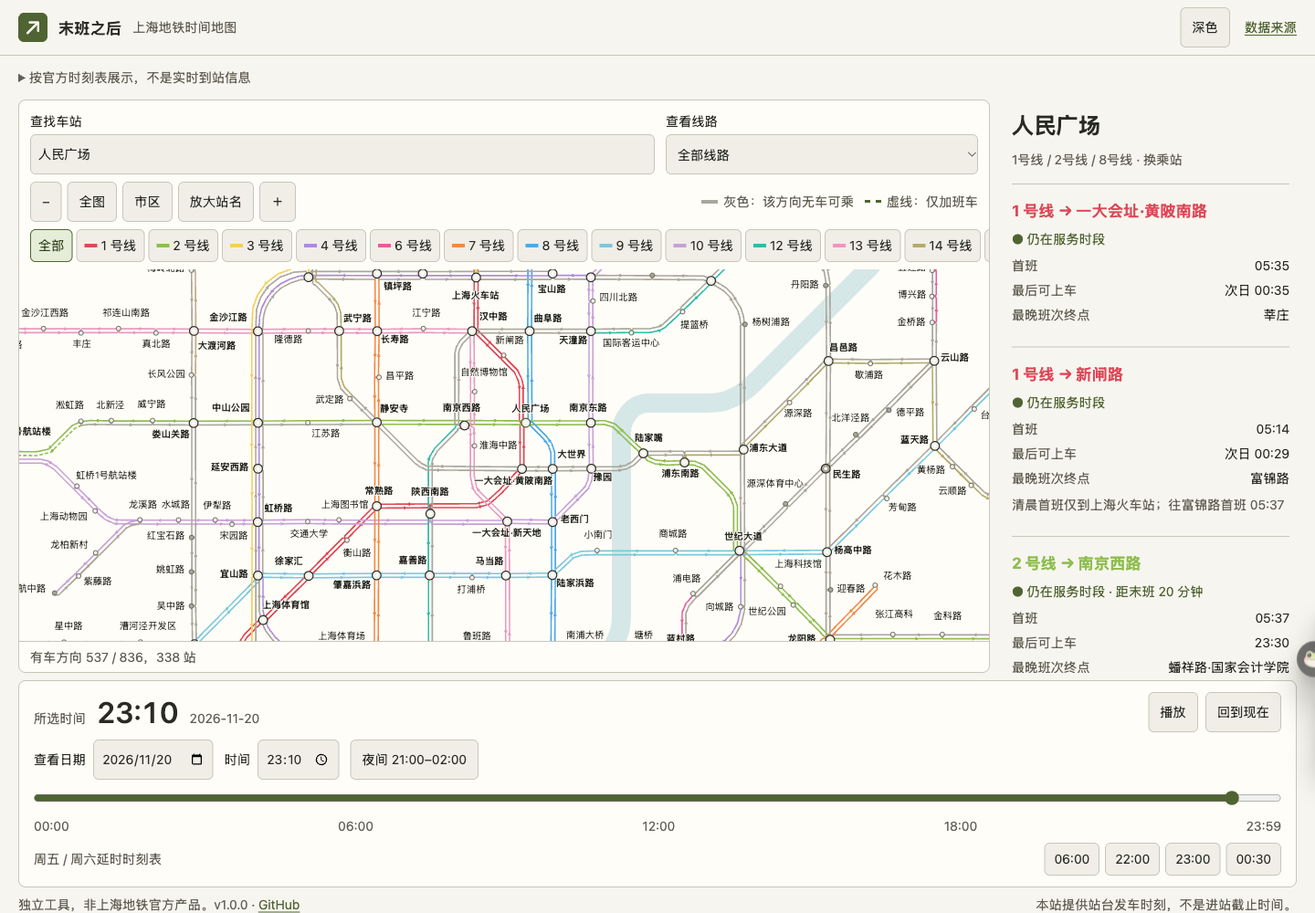
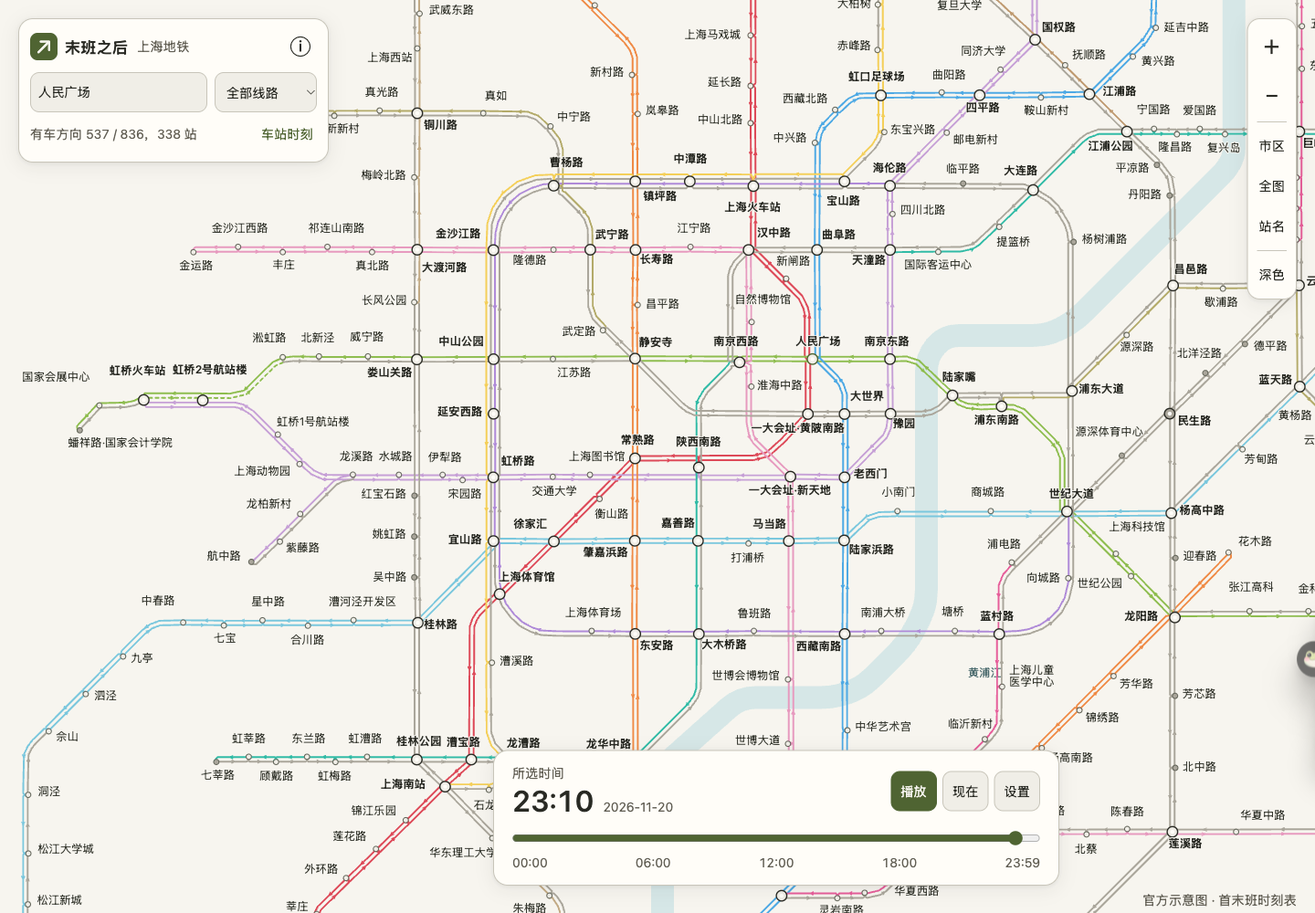
Make the metro map full screen with floating controls

diff --git a/dist/style.css b/dist/style.css
@@ -1,9 +1,13 @@
 /* Shared semantic colors keep the official line palette independent of the theme. */
 :root{font-family:-apple-system,BlinkMacSystemFont,'PingFang SC','Microsoft YaHei',sans-serif;font-size:14px;line-height:1.5;color:var(--text);background:var(--bg);font-synthesis:none;color-scheme:light;--bg:#f7f5ef;--surface:#fffdf8;--field:#f0eee6;--line:#c8c5b9;--muted:#625f54;--accent:#4e642d;--closed:#aaa69a;--text:#292a23;--hover:#e6e4d9;--pressed:#e5ecd7;--pressed-text:#33451b;--river:#d6e7e7;--river-text:#48696c;--station:#65675b;--map-text:#36382f}
 :root[data-theme=dark]{color-scheme:dark;--bg:#171715;--surface:#20201d;--field:#292925;--line:#49483f;--muted:#bebbb1;--accent:#d2dfa5;--closed:#88867d;--text:#eeeae2;--hover:#37372f;--pressed:#383e2c;--pressed-text:#e4efbf;--river:#1b3544;--river-text:#b7c7c4;--station:#bebbb1;--map-text:#dedbd2}
-*{box-sizing:border-box}body{margin:0}button,input,select{font:inherit;color:inherit}button,input,select{min-height:44px;border:1px solid var(--line);border-radius:6px;background:var(--field)}button{cursor:pointer;padding:8px 12px}button:hover{background:var(--hover)}button[aria-pressed=true]{border-color:var(--accent);background:var(--pressed);color:var(--pressed-text)}input,select{padding:8px;min-width:0;color-scheme:inherit}a{color:var(--accent);text-underline-offset:3px}button:focus-visible,input:focus-visible,select:focus-visible,summary:focus-visible,[tabindex]:focus-visible{outline:2px solid var(--accent);outline-offset:3px}summary{cursor:pointer;min-height:32px;line-height:32px}p{margin:8px 0;color:var(--muted)}h1,h2,h3{font-size:24px;line-height:1.3;margin:12px 0}h3{font-size:17px}small{font-size:14px}header{min-height:52px;padding:8px 20px;border-bottom:1px solid var(--line);display:flex;align-items:center;justify-content:space-between;gap:16px}.brand{display:flex;gap:12px;align-items:center;color:inherit;text-decoration:none}.brand strong{font-size:17px}.brand span:last-child{color:var(--muted)}.mark{font-size:24px;line-height:32px;width:32px;text-align:center;background:var(--accent);color:var(--bg);border-radius:6px}main{height:calc(100dvh - 52px);min-height:820px;max-width:1900px;margin:auto;padding:8px 20px;display:grid;grid-template-rows:auto minmax(0,1fr) auto auto;gap:8px}.notice{color:var(--muted)}.notice p{max-width:1000px}.workspace{display:grid;grid-template-columns:minmax(0,1fr) 320px;gap:16px;min-height:0}.map-panel{border:1px solid var(--line);border-radius:8px;overflow:hidden;display:grid;grid-template-rows:auto auto auto minmax(0,1fr) auto;min-width:0;min-height:0;background:var(--surface)}.search-row{display:flex;gap:12px;padding:12px 12px 0;align-items:end;flex-wrap:wrap}.search-row label{display:grid;gap:4px;flex:1}.search-row label:first-child{flex:2}.search-row #station-message{width:100%;margin:0;color:var(--accent)}#station-message:empty{display:none}.map-toolbar{display:flex;gap:8px;padding:8px 12px;flex-wrap:wrap;align-items:center;justify-content:space-between}.map-actions{display:flex;gap:6px}.legend{display:flex;gap:12px;flex-wrap:wrap;color:var(--muted)}.legend span{display:flex;align-items:center;gap:6px}.legend i{width:18px;height:4px;display:inline-block}.closed-key{background:var(--closed)}.extra-key{border-top:3px dashed var(--accent)}.line-filters{display:flex;gap:4px;padding:0 12px 8px;overflow:auto}.line-filters button{display:flex;align-items:center;white-space:nowrap;gap:4px;padding:4px 8px;min-height:36px}.line-filters i{width:14px;height:4px;background:var(--line-color)}.map-scroll{min-height:0;overflow:auto;cursor:grab;scrollbar-color:#69675b var(--surface);overscroll-behavior:contain}.map-scroll:active{cursor:grabbing}#map{display:block;margin:0 auto;max-width:none}svg text{font-size:17px;fill:var(--map-text);paint-order:stroke;stroke:var(--surface);stroke-width:3px;stroke-linejoin:round;user-select:none}svg .interchange-label{font-weight:600;fill:var(--text)}svg .map-orientation{font-size:24px;fill:var(--muted);stroke:none}svg .river-label{font-size:17px;fill:var(--river-text);stroke:none}svg .stop{cursor:pointer}svg .stop:focus circle{stroke:var(--accent);stroke-width:4}svg .stop:hover text{fill:var(--text)}.map-foot{display:flex;align-items:center;justify-content:space-between;flex-wrap:wrap;gap:6px;padding:6px 12px;border-top:1px solid var(--line);color:var(--muted)}#show-detail{display:none}aside{overflow:auto;padding:4px 8px 12px;min-height:0}#detail h2{margin-top:8px}.station-meta{margin:4px 0 16px}.direction{padding:16px 0;border-top:1px solid var(--line)}.direction strong{font-size:17px;line-height:1.5}.status{margin:8px 0;color:var(--muted)}.status.open{color:var(--accent)}dl{margin:8px 0}dl div{display:flex;gap:12px;justify-content:space-between;margin:6px 0}dt{color:var(--muted)}dd{margin:0;text-align:right;overflow-wrap:anywhere}.note{color:var(--muted)}.explainer{border-top:1px solid var(--line);margin-top:12px;padding-top:8px}.timeline{padding:12px 16px;border:1px solid var(--line);border-radius:8px;background:var(--surface)}.time-top{display:flex;justify-content:space-between;gap:12px;align-items:center}.time-top>div:first-child{display:flex;gap:12px;align-items:baseline;flex-wrap:wrap}#selected-time{font-size:32px;line-height:1.15;font-weight:550;font-variant-numeric:tabular-nums}#mode,#viewing-date{color:var(--muted)}.time-actions{display:flex;gap:8px}.date-row{display:flex;align-items:center;gap:12px;flex-wrap:wrap;margin-top:8px}.date-row label{display:flex;align-items:center;gap:8px}.date-row input{max-width:180px}#slider{width:100%;accent-color:var(--accent);cursor:ew-resize;display:block;padding:0;min-height:32px;border:0;margin:4px 0}.ticks{display:flex;justify-content:space-between;color:var(--muted)}.timeline-bottom{display:flex;align-items:center;justify-content:space-between;gap:12px;margin-top:8px}.presets{display:flex;gap:6px}.presets button{min-height:36px;padding:4px 10px}#calendar-note{color:var(--muted)}footer{color:var(--muted);display:flex;justify-content:space-between;gap:12px;flex-wrap:wrap}.source-page{display:block;height:auto;min-height:0;max-width:900px;padding:24px;line-height:1.8}.source-page li{color:var(--muted);margin-bottom:10px}.source-page h2{margin-top:28px}
-@media(max-width:900px){header{padding:8px 12px}.brand{gap:8px}.brand span:last-child{display:none}main{height:auto;min-height:0;display:grid;padding:8px;grid-template-rows:auto auto auto auto auto;gap:8px}.workspace{display:contents}.notice{order:0}.map-panel{order:1;display:block}.timeline{order:2}aside{order:3;overflow:visible;padding:12px}.map-scroll{height:clamp(280px,44svh,520px)}.search-row{padding:8px 8px 0;gap:8px}.search-row label:first-child{flex:1.6}.search-row label:last-of-type{flex:1}.map-toolbar{padding:8px;gap:8px}.map-actions{width:100%;justify-content:space-between}.map-actions button{padding:8px 10px}.legend{gap:8px}.line-filters{display:none}.map-foot{padding:8px;display:block}#show-detail{display:block;width:100%;margin-top:8px}.time-top>div:first-child{gap:4px 8px}#mode,#viewing-date{width:100%}.timeline{padding:12px}.date-row{gap:8px}.date-row label{gap:6px}.date-row input{width:152px}.date-row label:nth-child(2) input{width:106px}.date-row #range{width:100%}.timeline-bottom{display:block}.presets{margin-top:8px}.presets button{flex:1;min-height:44px}.ticks{gap:4px;flex-wrap:wrap}footer{order:4;padding:8px}.source-page{display:block;padding:20px}.direction strong{overflow-wrap:anywhere}}
+*{box-sizing:border-box}body{margin:0}button,input,select{font:inherit;color:inherit}button,input,select{min-height:44px;border:1px solid var(--line);border-radius:10px;background:var(--field)}button{cursor:pointer;padding:8px 12px;white-space:nowrap}button:hover{background:var(--hover)}button[aria-pressed=true]{background:var(--pressed);color:var(--pressed-text);border-color:var(--accent)}input,select{padding:8px;min-width:0;color-scheme:inherit}a{color:var(--accent);text-underline-offset:3px}button:focus-visible,input:focus-visible,select:focus-visible,[tabindex]:focus-visible{outline:2px solid var(--accent);outline-offset:3px}[hidden]{display:none!important}p{margin:10px 0;color:var(--muted)}h1,h2{font-size:24px;line-height:1.3;margin:12px 0}h3{font-size:17px}small{font-size:14px}.sr-only{position:absolute;width:1px;height:1px;padding:0;margin:-1px;overflow:hidden;clip:rect(0,0,0,0);white-space:nowrap;border:0}
+.map-app{overflow:hidden}.map-app main{position:fixed;inset:0;isolation:isolate}.map-scroll{position:absolute;inset:0;overflow:auto;background:var(--bg);cursor:grab;overscroll-behavior:none;scrollbar-width:none}.map-scroll::-webkit-scrollbar{display:none}.map-scroll:active{cursor:grabbing}#map-stage{width:max-content;padding:50dvh 50vw}#map{display:block;max-width:none}svg text{font-size:17px;fill:var(--map-text);paint-order:stroke;stroke:var(--bg);stroke-width:3px;stroke-linejoin:round;user-select:none}svg .interchange-label{font-weight:600;fill:var(--text)}svg .map-orientation{font-size:24px;fill:var(--muted);stroke:none}svg .river-label{font-size:17px;fill:var(--river-text);stroke:none}svg .stop{cursor:pointer}svg .stop:focus circle{stroke:var(--accent);stroke-width:4}
+.floating{position:absolute;background:var(--surface);border:1px solid var(--line);border-radius:16px;box-shadow:0 4px 20px #17171514,0 1px 4px #17171512;z-index:2}.search-panel{top:20px;left:20px;width:340px;padding:12px}header{display:flex;align-items:center;gap:10px;margin-bottom:10px}.brand{display:flex;align-items:center;gap:8px;color:var(--text);text-decoration:none}.brand strong{font-size:17px}.mark{font-size:24px;line-height:30px;width:30px;text-align:center;background:var(--accent);color:var(--bg);border-radius:8px}.city-name{color:var(--muted);flex:1}.icon-button{min-width:36px;min-height:36px;padding:0;font-size:24px;border:0;background:transparent}.search-row{display:grid;grid-template-columns:minmax(0,1fr) 112px;gap:8px}.search-row input{width:100%}.search-status{display:flex;gap:8px;align-items:center;margin-top:6px;color:var(--muted)}#count{flex:1;font-variant-numeric:tabular-nums}.text-button{border:0;background:transparent;padding:4px;min-height:36px;color:var(--accent)}#station-message:empty{display:none}#station-message{color:var(--accent);margin-bottom:0}
+#station-details{left:20px;top:198px;width:340px;max-height:calc(100dvh - 222px);overflow:hidden;display:flex;flex-direction:column;z-index:4}.panel-heading{display:flex;align-items:center;justify-content:space-between;padding:8px 16px;border-bottom:1px solid var(--line);color:var(--muted)}.detail-scroll{overflow:auto;padding:0 16px 16px;overscroll-behavior:contain;min-height:0}.station-meta{margin:4px 0 16px}.direction{padding:16px 0;border-top:1px solid var(--line)}.direction strong{display:block;font-size:17px;line-height:1.5;color:var(--text);border-left:4px solid var(--direction-color);padding-left:8px}.status{margin:8px 0;color:var(--muted)}.status.open{color:var(--accent)}dl{margin:8px 0}dl div{display:flex;gap:12px;justify-content:space-between;margin:6px 0}dt{color:var(--muted)}dd{margin:0;text-align:right;overflow-wrap:anywhere}#about-panel{top:198px;left:20px;width:340px;padding:0 16px 16px;max-height:calc(100dvh - 220px);overflow:auto;z-index:5}#about-panel .panel-heading{margin:0 -16px 12px}.legend{display:grid;gap:10px}.legend span{display:flex;align-items:center;gap:8px}.legend i{width:22px;height:4px;display:inline-block}.closed-key{background:var(--closed)}.open-key{background:var(--accent)}.extra-key{border-top:3px dashed var(--accent)}footer{color:var(--muted);border-top:1px solid var(--line);padding-top:10px}
+.map-tools{right:20px;top:20px;display:flex;flex-direction:column;padding:4px;border-radius:14px}.map-tools button{border:0;border-radius:8px;background:transparent;min-width:44px;padding:8px}.map-tools button:hover{background:var(--hover)}#plus,#minus{font-size:24px}.tool-divider{height:1px;background:var(--line);margin:4px 6px}.timeline{bottom:30px;left:50%;transform:translateX(-50%);width:min(620px,calc(100vw - 440px));padding:14px 20px;z-index:3}.time-top{display:flex;justify-content:space-between;align-items:center;gap:12px}.time-readout{min-width:0}.time-readout>div{display:flex;gap:10px;align-items:baseline;flex-wrap:wrap}#mode,#viewing-date{color:var(--muted)}#selected-time{font-size:32px;line-height:1.2;font-weight:550;font-variant-numeric:tabular-nums}.time-actions{display:flex;gap:6px;flex-shrink:0}.time-actions button{padding:8px 10px}#play{background:var(--accent);border-color:var(--accent);color:var(--bg)}#slider{display:block;width:100%;padding:0;border:0;min-height:32px;height:32px;margin:6px 0 0;accent-color:var(--accent);cursor:ew-resize}.ticks{display:flex;justify-content:space-between;gap:4px;color:var(--muted);font-variant-numeric:tabular-nums}.date-row{display:flex;gap:10px;align-items:end;flex-wrap:wrap;border-top:1px solid var(--line);margin-top:12px;padding-top:12px}.date-row label{display:grid;gap:4px}.date-row input{max-width:170px}.timeline-bottom{margin-top:12px;display:flex;align-items:center;justify-content:space-between;gap:8px;flex-wrap:wrap}#calendar-note{color:var(--muted)}.presets{display:flex;gap:6px}.presets button{padding:4px 8px}.map-attribution{position:absolute;bottom:4px;right:20px;color:var(--muted);pointer-events:none;font-size:14px}.source-page{max-width:900px;margin:auto;padding:24px;line-height:1.8}.source-page li{color:var(--muted);margin-bottom:10px}.source-page h2{margin-top:28px}
+@media(min-width:901px){.timeline{left:calc(50% + 130px)}}
+@media(max-width:900px){.search-panel{top:max(12px,env(safe-area-inset-top));left:12px;width:min(340px,calc(100vw - 90px))}.search-panel header{gap:6px}.city-name{display:none}.search-panel .icon-button{margin-left:auto}.search-row{grid-template-columns:minmax(0,1fr) 108px}.map-tools{right:12px;top:max(12px,env(safe-area-inset-top))}.timeline{left:12px;right:12px;bottom:max(22px,env(safe-area-inset-bottom));width:auto;transform:none;padding:12px 14px;max-height:65dvh;overflow:auto}.time-top{gap:8px}#selected-time{font-size:24px}.time-readout>div{gap:2px 8px}.time-actions{gap:4px}.time-actions button{padding:8px}.date-row input{width:150px}.date-row label:nth-child(2) input{width:106px}.date-row #range{flex:1}.map-attribution{right:12px;font-size:14px}.search-status{display:block}#count{display:block}#show-detail{min-height:32px;padding:2px 0}.search-panel{padding:10px}#station-details,#about-panel{left:12px;top:210px;width:calc(100vw - 24px);max-height:calc(100dvh - 390px)}.detail-scroll{padding:0 14px 14px}.panel-heading{padding:6px 14px}.timeline-bottom{display:block}.presets{margin-top:8px}.presets button{flex:1}}
+@media(max-width:370px){.search-panel{width:calc(100vw - 80px)}.search-row{grid-template-columns:1fr}.search-status{display:none}.search-panel header{margin-bottom:6px}.search-panel{padding:8px}.search-row input,.search-row select{min-height:40px}.time-top{flex-wrap:wrap}.time-actions{margin-left:auto}.time-readout>div{gap:4px}.time-readout #viewing-date{display:none}#station-details,#about-panel{top:200px;max-height:calc(100dvh - 380px)}}
+@media(max-height:560px) and (min-width:600px){.search-status{display:none}.search-panel{width:300px}.timeline{width:460px;left:auto;right:90px;transform:none;bottom:24px;max-height:calc(100dvh - 40px);overflow:auto}#station-details,#about-panel{top:150px;max-height:calc(100dvh - 165px);width:300px}.map-tools{top:12px}.map-tools button{min-height:36px}.time-readout>div{flex-wrap:nowrap}}
 @media(prefers-reduced-motion:reduce){*{scroll-behavior:auto!important}}
-
-.header-actions{display:flex;align-items:center;gap:16px}.header-actions button{white-space:nowrap}.time-actions{flex-shrink:0}.time-actions button{white-space:nowrap}footer a{white-space:nowrap}
-@media(max-width:900px){.header-actions{gap:12px}.header-actions button{padding:6px 10px}.map-scroll{height:clamp(240px,32svh,400px)}.timeline{display:grid;grid-template-columns:minmax(0,1fr)}.time-top{grid-row:1;flex-wrap:wrap}.time-top>div:first-child{flex:1;min-width:145px}#mode{width:100%}#viewing-date{width:auto}#selected-time{font-size:24px}.time-actions{gap:6px}.time-actions button{padding:8px}.timeline #slider{grid-row:2;margin-top:8px}.timeline .ticks{grid-row:3}.date-row{grid-row:4}.timeline-bottom{grid-row:5}.map-foot{display:flex;align-items:center;gap:4px}.map-foot #count{flex:1;min-width:180px}#show-detail{width:auto;margin:0;padding:6px 8px}.date-row label{flex-wrap:wrap}.date-row label:first-child{flex:1}.date-row input{max-width:100%}}

diff --git a/dist/sources.html b/dist/sources.html
@@ -1,1 +1,1 @@
-<!doctype html><html lang="zh-CN"><meta charset="utf-8"><meta name="viewport" content="width=device-width,initial-scale=1"><title>数据来源 · 末班之后</title><script src="theme.js"></script><link rel="stylesheet" href="style.css"><link rel="icon" href="icon.svg"><main class="source-page"><a href="index.html">← 返回时间地图</a><button type="button" data-theme-toggle>深色</button><h1>每一刻，都有出处。</h1><p>1 号线 28 站、2 号线 31 站、8 号线 30 站、10 号线 37 站（含航中路支线），新增 7 号线 33 站、9 号线 35 站、13 号线 31 站，再新增 4 号线 26 站、12 号线 32 站、14 号线 30 站，新增 3 号线 29 站、6 号线 28 站、15 号线 30 站、18 号线 31 站后，合并换乘站共 338 个车站、836 个乘车方向。所有首末班时间取自官方表格，没有使用站间均匀推算或模拟数据。</p><h2>线路布局依据</h2><p>站点位置、相邻区段弯折与站名位置来自<a href="https://service.shmetro.com/yxxlt/index.htm">上海地铁官网网络示意图</a>及其嵌入的官方矢量图（标注版本 D202512，核验于 2026-11-16）。保留官方图的相对方位与换乘关系，仅提取本工具 十四条线路重绘，并增加双向箭头和收车状态。黄浦江为简化方位参照。官方图本身经过示意化处理，并非真实地理比例或导航地图。</p><h2>官方时刻表来源</h2><ul><li><a href="https://service.shmetro.com/hcskb/index.htm?line=1">上海地铁官网 · 1 号线首末班时刻表</a></li><li><a href="https://service.shmetro.com/hcskb/index.htm?line=2">上海地铁官网 · 2 号线首末班时刻表及定点加班车</a></li><li><a href="https://service.shmetro.com/hcskb/index.htm?line=8">上海地铁官网 · 8 号线首末班及周末延时</a></li><li><a href="https://service.shmetro.com/hcskb/index.htm?line=10">上海地铁官网 · 10 号线分支、延时及定点加班车</a></li><li><a href="https://www.shanghai.gov.cn/nw17239/20260413/d8e14c16213246eba8fac7c23b2b04af.html">上海市人民政府 · 2026-04-13 全网时刻表转载</a>，用于图表交叉核对。</li></ul><p>采集核验日期：2026-11-16。官网未明确显示这些表各自的生效日期，因此采集日期不等于生效日期。本工具 是官方常规计划的快照，不是实时运营信息。</p><p><a href="https://service.shmetro.com/hcskb/index.htm?line=7">上海地铁官网 · 7 号线首末班与周末延时</a></p><p><a href="https://service.shmetro.com/hcskb/index.htm?line=9">上海地铁官网 · 9 号线首末班与周末延时</a></p><p><a href="https://service.shmetro.com/hcskb/index.htm?line=13">上海地铁官网 · 13 号线首末班与周末延时</a></p><p><a href="https://service.shmetro.com/hcskb/index.htm?line=4">上海地铁官网 · 4 号线首末班表</a></p><p><a href="https://service.shmetro.com/hcskb/index.htm?line=12">上海地铁官网 · 12 号线首末班表</a></p><p><a href="https://service.shmetro.com/hcskb/index.htm?line=14">上海地铁官网 · 14 号线首末班表</a></p><p><a href="https://service.shmetro.com/hcskb/index.htm?line=3">上海地铁官网 · 3 号线首末班表</a></p><p><a href="https://service.shmetro.com/hcskb/index.htm?line=6">上海地铁官网 · 6 号线首末班表</a></p><p><a href="https://service.shmetro.com/hcskb/index.htm?line=15">上海地铁官网 · 15 号线首末班表</a></p><p><a href="https://service.shmetro.com/hcskb/index.htm?line=18">上海地铁官网 · 18 号线首末班表</a></p><h2>颜色怎样计算</h2><ul><li>每段箭头从出发站看：首班开始至末班发车之前，表示仍有后续服务。不是轨道上有车，也不是现在立刻有车到站。</li><li>时间精确到分钟。在表定末班分钟开始时，保守视为末班已发，不显示为还能赶上。</li><li>首班尚未开始和末班已结束都显示灰色，点击站点可区分原因。</li><li>1 号线采用周五、周六延时表；清晨部分北行首班只到上海火车站。末班跨午夜按前一运营日延续。</li><li>2 号线广兰路以西东行采用到广兰路的常规末班；广兰路及以东采用到机场的末班。页面分别显示机场与广兰路末班限制。</li><li>虹桥火车站 23:04、23:30，虹桥2号航站楼 23:06、23:32 的定点加班车允许上车，终点龙阳路。中途指定站只下不上，不延长这些站的可乘车时间。常规末班后用线路原色虚线区分。</li><li>8 号线采用周五、周六延时表，两个方向分别判断。</li><li>10 号线在龙溪路分为虹桥火车站与航中路两支；周五、周六仅虹桥火车站—新江湾城区段延时，不延长航中路支线及新江湾城—基隆路段。共线区段只要任一可乘班次仍在服务，保持点亮；分岔后独立判断。</li><li>10 号线周日—周四定点加班车仅虹桥火车站（22:45 / 23:00）、虹桥2号航站楼（22:46 / 23:01）、虹桥1号航站楼（22:49 / 23:04）允许上车，终点五角场；中途指定站只下不上。</li><li>7 号线仅祁华路—花木路、9 号线仅佘山—杨高中路、13 号线仅金运路—华鹏路区段在周五、周六延时。区间末班不会延长到区间之外；跨午夜继续沿用前一运营日方案。</li><li>4 号线为闭合环线，内圈、外圈分别计算。官网宜山路出现两行，分别保留内圈和外圈的发车时间，不把到达时间当发车。末班终到宜山路，经过宜山路继续绕行的方向不会因此保持点亮。</li><li>12、14 号线采用官方常规首末班表，不套用其他线路的周末延时。14 号线仅包含当前官方表中有首末班时刻的 30 个运营站。</li><li>3、6、15、18 号线采用各自官方普通首末班表。3、4 号线共线区段保留独立轨迹和服务状态；18 号线包含官方表中的航头—康文路全线，并按每站首班时间处理多点发车。</li><li>终点站的“到达”时间不会当作该方向的上车时间。</li></ul><h2>适用范围</h2><p>日期选择按星期套用官方常规方案。尚未接入法定节假日专项方案、临时封站、现场加班和实时延误；选择历史或未来日期也不代表已核验那天的实际运营。地图不能保证换乘成功或来得及进站，请以当日公告、站内提示为准。</p><p>官网提示末班车进站前三分钟停售该末班车车票；本工具以站台发车时刻判断，不是进站截止时间。</p><h2>一分钟体验</h2><p>选 2026-11-16，点“夜间 21:00–02:00”后播放：从 22:30 起观察十四条线逐段变灰；选虹桥火车站看加班车；把日期换成 2026-11-20，继续播放至次日，观察 1、7、8、9、10、13 号线按区段延时。选龙溪路查看三种相邻方向：前往航中路支线可能已收车，前往虹桥火车站的分支仍有服务。全图适合看变化，“放大站名”或放大适合查看细节。</p></main></html>
+<!doctype html><html lang="zh-CN"><meta charset="utf-8"><meta name="viewport" content="width=device-width,initial-scale=1"><title>数据来源 · 末班之后</title><script src="theme.js"></script><link rel="stylesheet" href="style.css"><link rel="icon" href="icon.svg"><main class="source-page"><a href="index.html">← 返回时间地图</a><button type="button" data-theme-toggle>深色</button><h1>每一刻，都有出处。</h1><p>1 号线 28 站、2 号线 31 站、8 号线 30 站、10 号线 37 站（含航中路支线），新增 7 号线 33 站、9 号线 35 站、13 号线 31 站，再新增 4 号线 26 站、12 号线 32 站、14 号线 30 站，新增 3 号线 29 站、6 号线 28 站、15 号线 30 站、18 号线 31 站后，合并换乘站共 338 个车站、836 个乘车方向。所有首末班时间取自官方表格，没有使用站间均匀推算或模拟数据。</p><h2>线路布局依据</h2><p>站点位置、相邻区段弯折与站名位置来自<a href="https://service.shmetro.com/yxxlt/index.htm">上海地铁官网网络示意图</a>及其嵌入的官方矢量图（标注版本 D202512，核验于 2026-11-16）。保留官方图的相对方位与换乘关系，仅提取本工具 十四条线路重绘，并增加双向箭头和收车状态。黄浦江为简化方位参照。官方图本身经过示意化处理，并非真实地理比例或导航地图。</p><h2>官方时刻表来源</h2><ul><li><a href="https://service.shmetro.com/hcskb/index.htm?line=1">上海地铁官网 · 1 号线首末班时刻表</a></li><li><a href="https://service.shmetro.com/hcskb/index.htm?line=2">上海地铁官网 · 2 号线首末班时刻表及定点加班车</a></li><li><a href="https://service.shmetro.com/hcskb/index.htm?line=8">上海地铁官网 · 8 号线首末班及周末延时</a></li><li><a href="https://service.shmetro.com/hcskb/index.htm?line=10">上海地铁官网 · 10 号线分支、延时及定点加班车</a></li><li><a href="https://www.shanghai.gov.cn/nw17239/20260413/d8e14c16213246eba8fac7c23b2b04af.html">上海市人民政府 · 2026-04-13 全网时刻表转载</a>，用于图表交叉核对。</li></ul><p>采集核验日期：2026-11-16。官网未明确显示这些表各自的生效日期，因此采集日期不等于生效日期。本工具 是官方常规计划的快照，不是实时运营信息。</p><p><a href="https://service.shmetro.com/hcskb/index.htm?line=7">上海地铁官网 · 7 号线首末班与周末延时</a></p><p><a href="https://service.shmetro.com/hcskb/index.htm?line=9">上海地铁官网 · 9 号线首末班与周末延时</a></p><p><a href="https://service.shmetro.com/hcskb/index.htm?line=13">上海地铁官网 · 13 号线首末班与周末延时</a></p><p><a href="https://service.shmetro.com/hcskb/index.htm?line=4">上海地铁官网 · 4 号线首末班表</a></p><p><a href="https://service.shmetro.com/hcskb/index.htm?line=12">上海地铁官网 · 12 号线首末班表</a></p><p><a href="https://service.shmetro.com/hcskb/index.htm?line=14">上海地铁官网 · 14 号线首末班表</a></p><p><a href="https://service.shmetro.com/hcskb/index.htm?line=3">上海地铁官网 · 3 号线首末班表</a></p><p><a href="https://service.shmetro.com/hcskb/index.htm?line=6">上海地铁官网 · 6 号线首末班表</a></p><p><a href="https://service.shmetro.com/hcskb/index.htm?line=15">上海地铁官网 · 15 号线首末班表</a></p><p><a href="https://service.shmetro.com/hcskb/index.htm?line=18">上海地铁官网 · 18 号线首末班表</a></p><h2>颜色怎样计算</h2><ul><li>每段箭头从出发站看：首班开始至末班发车之前，表示仍有后续服务。不是轨道上有车，也不是现在立刻有车到站。</li><li>时间精确到分钟。在表定末班分钟开始时，保守视为末班已发，不显示为还能赶上。</li><li>首班尚未开始和末班已结束都显示灰色，点击站点可区分原因。</li><li>1 号线采用周五、周六延时表；清晨部分北行首班只到上海火车站。末班跨午夜按前一运营日延续。</li><li>2 号线广兰路以西东行采用到广兰路的常规末班；广兰路及以东采用到机场的末班。页面分别显示机场与广兰路末班限制。</li><li>虹桥火车站 23:04、23:30，虹桥2号航站楼 23:06、23:32 的定点加班车允许上车，终点龙阳路。中途指定站只下不上，不延长这些站的可乘车时间。常规末班后用线路原色虚线区分。</li><li>8 号线采用周五、周六延时表，两个方向分别判断。</li><li>10 号线在龙溪路分为虹桥火车站与航中路两支；周五、周六仅虹桥火车站—新江湾城区段延时，不延长航中路支线及新江湾城—基隆路段。共线区段只要任一可乘班次仍在服务，保持点亮；分岔后独立判断。</li><li>10 号线周日—周四定点加班车仅虹桥火车站（22:45 / 23:00）、虹桥2号航站楼（22:46 / 23:01）、虹桥1号航站楼（22:49 / 23:04）允许上车，终点五角场；中途指定站只下不上。</li><li>7 号线仅祁华路—花木路、9 号线仅佘山—杨高中路、13 号线仅金运路—华鹏路区段在周五、周六延时。区间末班不会延长到区间之外；跨午夜继续沿用前一运营日方案。</li><li>4 号线为闭合环线，内圈、外圈分别计算。官网宜山路出现两行，分别保留内圈和外圈的发车时间，不把到达时间当发车。末班终到宜山路，经过宜山路继续绕行的方向不会因此保持点亮。</li><li>12、14 号线采用官方常规首末班表，不套用其他线路的周末延时。14 号线仅包含当前官方表中有首末班时刻的 30 个运营站。</li><li>3、6、15、18 号线采用各自官方普通首末班表。3、4 号线共线区段保留独立轨迹和服务状态；18 号线包含官方表中的航头—康文路全线，并按每站首班时间处理多点发车。</li><li>终点站的“到达”时间不会当作该方向的上车时间。</li></ul><h2>适用范围</h2><p>日期选择按星期套用官方常规方案。尚未接入法定节假日专项方案、临时封站、现场加班和实时延误；选择历史或未来日期也不代表已核验那天的实际运营。地图不能保证换乘成功或来得及进站，请以当日公告、站内提示为准。</p><p>官网提示末班车进站前三分钟停售该末班车车票；本工具以站台发车时刻判断，不是进站截止时间。</p><h2>一分钟体验</h2><p>选 2026-11-16，在时间面板的“设置”中点“夜间 21:00–02:00”后播放：从 22:30 起观察十四条线逐段变灰；选虹桥火车站看加班车；把日期换成 2026-11-20，继续播放至次日，观察 1、7、8、9、10、13 号线按区段延时。选龙溪路查看三种相邻方向：前往航中路支线可能已收车，前往虹桥火车站的分支仍有服务。全图适合看变化，“站名”或放大适合查看细节。</p></main></html>

diff --git a/dist/index.html b/dist/index.html
@@ -1,24 +1,21 @@
 <!doctype html>
-<html lang="zh-CN"><head><meta charset="utf-8"><meta name="viewport" content="width=device-width,initial-scale=1"><title>末班之后｜上海地铁时间地图</title><meta name="description" content="拖动时间，查看上海地铁14条线路各站两个方向的首末班服务状态。"><script src="theme.js"></script><link rel="stylesheet" href="style.css"><link rel="icon" href="icon.svg" type="image/svg+xml"><script defer src="https://cloud.umami.is/script.js" data-website-id="e01c9f78-4607-4e60-b01c-77c8190b12b4"></script></head>
-<body>
-<header><a class="brand" href="index.html"><span class="mark" aria-hidden="true">↗</span><strong>末班之后</strong><span>上海地铁时间地图</span></a><div class="header-actions"><button type="button" data-theme-toggle aria-label="切换深色模式">深色</button><a href="sources.html">数据来源</a></div></header>
-<main>
-<details class="notice"><summary>按官方时刻表展示，不是实时到站信息</summary><p>数据核验于 2026-11-16。包含常规延时和定点加班车，不含节假日临时调整、封站与延误。<a href="sources.html">查看计算规则</a></p></details>
-<section class="workspace">
-<div class="map-panel">
-<div class="search-row"><label for="station">查找车站<input id="station" type="search" list="station-options" placeholder="输入站名，如人民广场" autocomplete="off" aria-describedby="station-message"><datalist id="station-options"></datalist></label><label for="line-select">查看线路<select id="line-select" aria-label="查看线路"></select></label><p id="station-message" role="status"></p></div>
-<div class="map-toolbar"><div class="map-actions"><button id="minus" aria-label="缩小地图">−</button><button id="fit">全图</button><button id="city">市区</button><button id="readable">放大站名</button><button id="plus" aria-label="放大地图">＋</button></div><div class="legend"><span><i class="closed-key"></i>灰色：该方向无车可乘</span><span><i class="extra-key"></i>虚线：仅加班车</span></div></div>
-<div class="line-filters" id="line-filters" aria-label="线路筛选"></div>
-<div class="map-scroll" id="map-scroll" tabindex="0" aria-label="地铁线路图，可拖动或用方向键平移"><svg id="map" role="group" aria-label="上海地铁14条线路双向服务示意图"></svg></div>
-<div class="map-foot"><span id="count"></span><button id="show-detail">查看人民广场时刻</button></div>
-</div>
-<aside id="station-details" tabindex="-1"><div id="detail"></div><details class="explainer"><summary>怎样看这张图？</summary><p>沿箭头方向看：彩色表示本站仍有后续车，灰色表示首班未开始或末班已结束。每条线路从本站到相邻站算一个乘车方向。它不保证能赶上换乘。</p><p>站名太小可点“放大站名”。示意图沿用官方布局，不按真实地理比例绘制。</p></details></aside>
+<html lang="zh-CN"><head><meta charset="utf-8"><meta name="viewport" content="width=device-width,initial-scale=1,viewport-fit=cover"><title>末班之后｜上海地铁时间地图</title><meta name="description" content="在全屏线路图上拖动时间，查看上海地铁14条线路各站双向首末班服务。"><script src="theme.js"></script><link rel="stylesheet" href="style.css"><link rel="icon" href="icon.svg" type="image/svg+xml"><script defer src="https://cloud.umami.is/script.js" data-website-id="e01c9f78-4607-4e60-b01c-77c8190b12b4"></script></head>
+<body class="map-app">
+<main aria-label="上海地铁时间地图">
+<div class="map-scroll" id="map-scroll" tabindex="0" aria-label="地铁线路图，可拖动或用方向键平移"><div id="map-stage"><svg id="map" role="group" aria-label="上海地铁14条线路双向服务示意图"></svg></div></div>
+<section class="search-panel floating" aria-label="查找车站与线路">
+<header><a class="brand" href="index.html"><span class="mark" aria-hidden="true">↗</span><strong>末班之后</strong></a><span class="city-name">上海地铁</span><button id="about-toggle" class="icon-button" aria-label="图例与说明" aria-expanded="false" aria-controls="about-panel">ⓘ</button></header>
+<div class="search-row"><label class="sr-only" for="station">查找车站</label><input id="station" type="search" list="station-options" placeholder="搜索车站" autocomplete="off" aria-describedby="station-message"><datalist id="station-options"></datalist><label class="sr-only" for="line-select">查看线路</label><select id="line-select" aria-label="查看线路"></select></div>
+<p id="station-message" role="status"></p>
+<div class="search-status"><span id="count"></span><button id="show-detail" class="text-button" aria-controls="station-details" aria-expanded="false">车站时刻</button></div>
 </section>
-<section class="timeline" aria-label="查看时间">
-<div class="time-top"><div><span id="mode"></span><strong id="selected-time">--:--</strong><span id="viewing-date"></span></div><div class="time-actions"><button id="play" aria-pressed="false">播放</button><button id="now">回到现在</button></div></div>
-<div class="date-row"><label><span id="date-label">查看日期</span><input id="date" type="date" aria-label="查看日期"></label><label>时间<input id="time-input" type="time" aria-label="跳转到指定时间"></label><button id="range" aria-pressed="false">夜间 21:00–02:00</button></div>
+<aside id="station-details" class="floating" tabindex="-1" aria-label="车站时刻" hidden><div class="panel-heading"><span>车站时刻</span><button id="close-detail" class="icon-button" aria-label="关闭车站时刻">×</button></div><div class="detail-scroll"><div id="detail"></div></div></aside>
+<section id="about-panel" class="floating" aria-label="图例与说明" hidden><div class="panel-heading"><strong>怎样看这张图</strong><button id="close-about" class="icon-button" aria-label="关闭说明">×</button></div><div class="legend"><span><i class="open-key"></i>彩色：该方向仍有后续车</span><span><i class="closed-key"></i>灰色：该方向无车可乘</span><span><i class="extra-key"></i>虚线：仅加班车</span></div><p>首班未开始和末班已结束都显示灰色。每条线路从本站到相邻站算一个方向。</p><p>沿用官方示意图，不按真实地理比例绘制。按官方时刻表展示，不是实时到站信息，也不保证换乘成功。</p><p>核验于 2026-11-16，不含节假日临时调整。<a href="sources.html">数据来源与计算规则</a></p><footer>独立工具，非上海地铁官方产品。<br>v1.0.1 · <a href="https://github.com/holynova/shanghai-metro-night" target="_blank" rel="noopener">GitHub</a></footer></section>
+<nav class="map-tools floating" aria-label="地图工具"><button id="plus" aria-label="放大地图" title="放大地图">＋</button><button id="minus" aria-label="缩小地图" title="缩小地图">−</button><span class="tool-divider"></span><button id="city" title="查看市区">市区</button><button id="fit" title="查看全图">全图</button><button id="readable" title="放大站名">站名</button><span class="tool-divider"></span><button type="button" data-theme-toggle aria-label="切换深色模式">深色</button></nav>
+<section class="timeline floating" aria-label="查看时间">
+<div class="time-top"><div class="time-readout"><span id="mode">上海当前时间</span><div><strong id="selected-time">--:--</strong><span id="viewing-date"></span></div></div><div class="time-actions"><button id="play" aria-pressed="false">播放</button><button id="now">现在</button><button id="time-options-toggle" aria-label="展开日期与时间选项" aria-expanded="false" aria-controls="time-options">设置</button></div></div>
 <input id="slider" type="range" min="0" max="1439" step="1" aria-label="时间轴"><div class="ticks" id="ticks"></div>
-<div class="timeline-bottom"><span id="calendar-note"></span><div class="presets"><button data-time="360">06:00</button><button data-time="1320">22:00</button><button data-time="1380">23:00</button><button data-time="30">00:30</button></div></div>
+<div id="time-options" hidden><div class="date-row"><label><span id="date-label">查看日期</span><input id="date" type="date" aria-label="查看日期"></label><label>时间<input id="time-input" type="time" aria-label="跳转到指定时间"></label><button id="range" aria-pressed="false">夜间 21:00–02:00</button></div><div class="timeline-bottom"><span id="calendar-note"></span><div class="presets"><button data-time="360">06:00</button><button data-time="1320">22:00</button><button data-time="1380">23:00</button><button data-time="30">00:30</button></div></div></div>
 </section>
-<footer><span>独立工具，非上海地铁官方产品。v1.0.0 · <a href="https://github.com/holynova/shanghai-metro-night" target="_blank" rel="noopener">GitHub</a></span><span>本站提供站台发车时刻，不是进站截止时间。</span></footer>
+<div class="map-attribution">官方示意图 · 首末班时刻表</div>
 </main><script type="module" src="app.mjs"></script></body></html>

diff --git a/README.md b/README.md
@@ -1,8 +1,8 @@
 # 末班之后 / Shanghai Metro Night
 
-拖动时间轴，查看上海地铁 14 条线路、338 个车站的双向服务状态。站点与线路沿用官方示意图布局，首末班来自官方时刻表；支持站名搜索、跨午夜播放、浅色与深色模式。灰色表示该方向当前无后续班次可上车，不代表轨道上没有列车，也不保证换乘成功。数据核验于 2026-11-16，不含临时运营调整。
+全屏线路图搭配悬浮搜索、地图工具与时间轴，查看上海地铁 14 条线路、338 个车站的双向服务状态。站点与线路沿用官方示意图布局，首末班来自官方时刻表；支持站名搜索、跨午夜播放、浅色与深色模式。灰色表示该方向当前无后续班次可上车，不代表轨道上没有列车，也不保证换乘成功。数据核验于 2026-11-16，不含临时运营调整。
 
-Explore the first and last boarding times of 14 Shanghai Metro lines and 338 stations on the official schematic layout. Search stations, scrub through midnight, and switch between light and dark themes. Gray means no later boarding service at the selected station and direction. This is a published timetable snapshot, not live train tracking or a transfer guarantee.
+Use a full-screen schematic with floating search, map tools and timeline to explore the first and last boarding times of 14 Shanghai Metro lines and 338 stations on the official schematic layout. Search stations, scrub through midnight, and switch between light and dark themes. Gray means no later boarding service at the selected station and direction. This is a published timetable snapshot, not live train tracking or a transfer guarantee.
 
 ![浅色地图 / Light map](assets/screenshot.png)
 
@@ -30,7 +30,7 @@ npm run deploy:check
 npm run deploy -- /path/to/holynova.github.io
 ```
 
-Shared Worker `xiaosang-portfolio` · `xiaosang.cc/shanghai-metro-night/` · v1.0.0
+Shared Worker `xiaosang-portfolio` · `xiaosang.cc/shanghai-metro-night/` · v1.0.1
 
 源码与部署配置统一在 main；本地手动发布，不使用自动部署分支或 workflow。
 Source and deployment configuration share main. Deploy manually from the committed production build.

diff --git a/audit/2026-11/FULLSCREEN.md b/audit/2026-11/FULLSCREEN.md
@@ -1,0 +1,22 @@
+# 全屏地图改版 · v1.0.1
+
+用户要求把线路图作为主角，参考高德/苹果地图的悬浮控件布局。本轮保留官方 SVG 站点、线路几何与官方首末班逻辑。
+
+## 改动
+
+- 地图铺满浏览器窗口，不再使用上方标题区、固定侧栏与下方整行面板分割画布。
+- 左上浮窗：搜索车站、筛选线路、统计与时刻入口；右侧：缩放、市区、全图、站名、浅深色切换。
+- 底部悬浮时间轴默认精简，日期、夜间范围与预设时刻收进“设置”。
+- 点击站点或搜索后才打开可关闭的时刻卡；手机详情开启时，把选中站点移到详情卡与时间轴之间。
+- 图例、官方数据边界、GitHub 与版本集中到“ⓘ”说明卡。Esc 关闭面板，触摸平移与鼠标拖动保持可用。
+- 浅色详情用正常正文颜色，线路色改为侧边标记，避免亮色线路文字在浅底上难辨。
+
+## 验证
+
+36 项测试、生产构建、版本及 README 校验通过。浏览器实测鼠标拖图、无效搜索、站点卡开关、设置展开、线路筛选、跨午夜切换。
+
+视口 1440×1000、1280×800、768×1024、390×844、320×640 与 844×390：地图占满窗口，文档无横向或纵向溢出；手机详情选站落在两个面板之间。手机仅浏览器模拟，未真机验证。
+
+复用先前已核验的官方地图与数据，没有新增或推算时刻。参考了 [Apple Maps 网页](https://maps.apple.com/) 的地图主画布、搜索与独立地图工具布局；苹果地图底图在当前网络未渲染，参考仅限已实际显示的界面结构。
+
+新截图：assets/screenshot.png、screenshot-dark.png、screenshot-mobile.png。全图视图用于观察全网变化；阅读具体站名仍建议“站名”放大。
